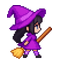
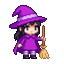
Ver.1.677: 魔女/侍/サイバー/忍者ぴよの立ち絵を正面向きに描き直し（✅ユーザー選定）
ユーザー指摘（2回目）「立ち絵から完全に横を向いていてFFのようだが意図していない。移動中は
完全に横でも構わないが、立ち絵だけは私服ぴよのように顔が見えなければならない」。

真因は生成時の指定そのもの: 旧 generate-skin-*-openai.mjs の identity に
`same side-view stance facing right` と書いてあり、4種とも完全な横顔で焼かれていた
（私服/メイド/アイドルは正面＝そちらが本来の見本。1.666でも同じ是正をしている）。

tools/gemini-skin-front-idle.mjs を追加して立ち絵だけ描き直した:
  ・入力2枚＝①今の立ち絵(nearestで1024)＝衣装と配色の正 ②base_front_1024.png＝向きの見本
  ・「衣装は1つも変えず、向きだけ正面へ」という指示。両目と顔が見えることを必須にしてある
  ・後処理は既存と同一（緑背景をchromaKey→fillHoles→player_idle_v1に足元と横中心を整列）
採用: 魔女=候補1 / 侍=候補2 / サイバー=候補2 / 忍者=候補1（ユーザーが候補を見て選定）。

⚠歩行/ジャンプ/落下のコマは横向きのまま**一切触っていない**（ユーザー明言）。
⚠採用時に現行を tools/_raw/BACKUP_*.png へ退避してから上書きする作りにした
  （1.668「魔女スキンを上書きしかけた事故」の再発防止）。
⚠ショップのプレビュー/図鑑/タイトルショップのアイコンは同じ skin_*_idle.png を参照しているので、
  差し替えだけで全部そろって直る（参照の変更は不要）。

diff --git a/index.html b/index.html
@@ -76,7 +76,7 @@
                 box-sizing: border-box;
             }
             body::after {
-                content: "Ver.1.676";
+                content: "Ver.1.677";
                 position: fixed;
                 bottom: 8px; right: 10px;
                 color: rgba(255,255,255,0.5);
@@ -951,7 +951,7 @@
                     color: #fff; font-size: clamp(7px, 1.2vw, 12px);
                     text-shadow: 2px 2px 4px rgba(0,0,0,0.8);
                     font-weight: bold;">
-                    <span style="background: rgba(0,0,0,0.4); padding: 2px 6px; border-radius: 5px;">Ver.1.676</span>
+                    <span style="background: rgba(0,0,0,0.4); padding: 2px 6px; border-radius: 5px;">Ver.1.677</span>
                 </div>
 
                 <!-- クレジット：右下 -->
